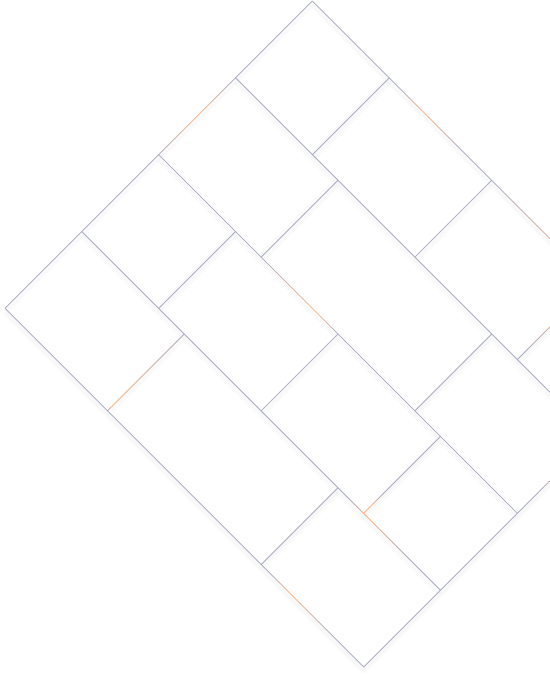
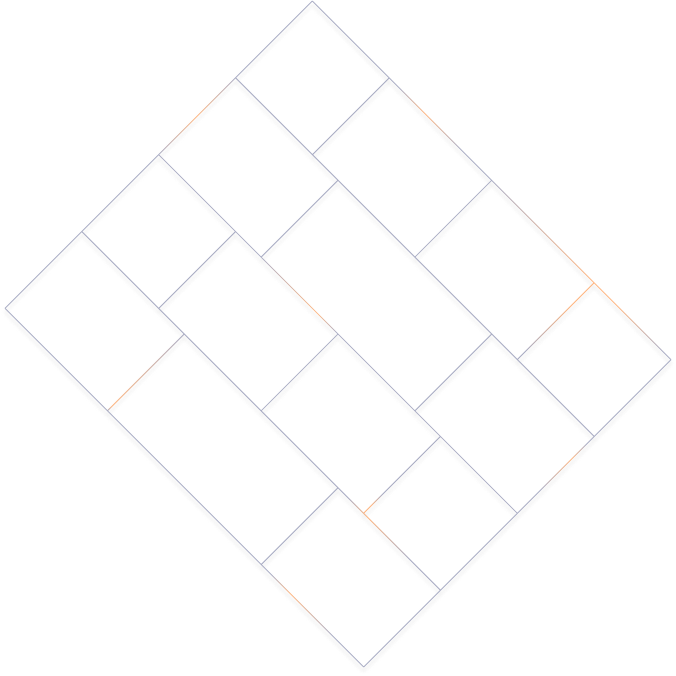
add positions

diff --git a/src/assets/layout/sections/main/Main.tsx b/src/assets/layout/sections/main/Main.tsx
@@ -4,6 +4,7 @@ import { FlexWrapper } from '../../../../componets/FlexWrapper';
 import { Btn } from '../../../../componets/btn/Btn';
 import  MyPhoto  from '../../../images/myphoto.jpeg'
 import styled from 'styled-components';
+import Dreving from '../../../images/drawing.png'
 
 
 
@@ -17,7 +18,11 @@ export const Main = () => {
                         <MainText>Lorem ipsum dolor sit amet, consectetur adipiscing elit, sed do eiusmod tempor incididunt ut labore et dolore magna aliqua.</MainText>
                         <Btn text={"Let’s Begin"}/>
                     </MainBlok>
-                    <ImagePhoto src={MyPhoto} alt='My Photo'/>
+                    <PhotoWrapper>
+                        <ImagePhoto src={MyPhoto} alt='My Photo'/>
+                        <ImageDreving src={Dreving} alt='dreving'/>
+                    </PhotoWrapper>
+                    
                 </FlexWrapper>
             </Container>
             
@@ -52,11 +57,23 @@ const MainText = styled.p`
 
 `
 
-const ImagePhoto = styled.img`
+const PhotoWrapper = styled.div`
+    position: relative;
+
+`
+
+const ImageDreving = styled.img`
+    position: absolute;
+    right: -77%;
+    z-index: 0;
+`
+
+const ImagePhoto = styled.img` 
+    position: relative;
     width: 380px;
     height: 450px;
     object-fit: cover;
-    border: 5px solid #8643DC; 
-    border-radius: 0 40px 0 40px; 
-    
+    border: 5px solid #8643DC;
+    border-radius: 0 40px 0 40px;
+    z-index: 1;
 `
